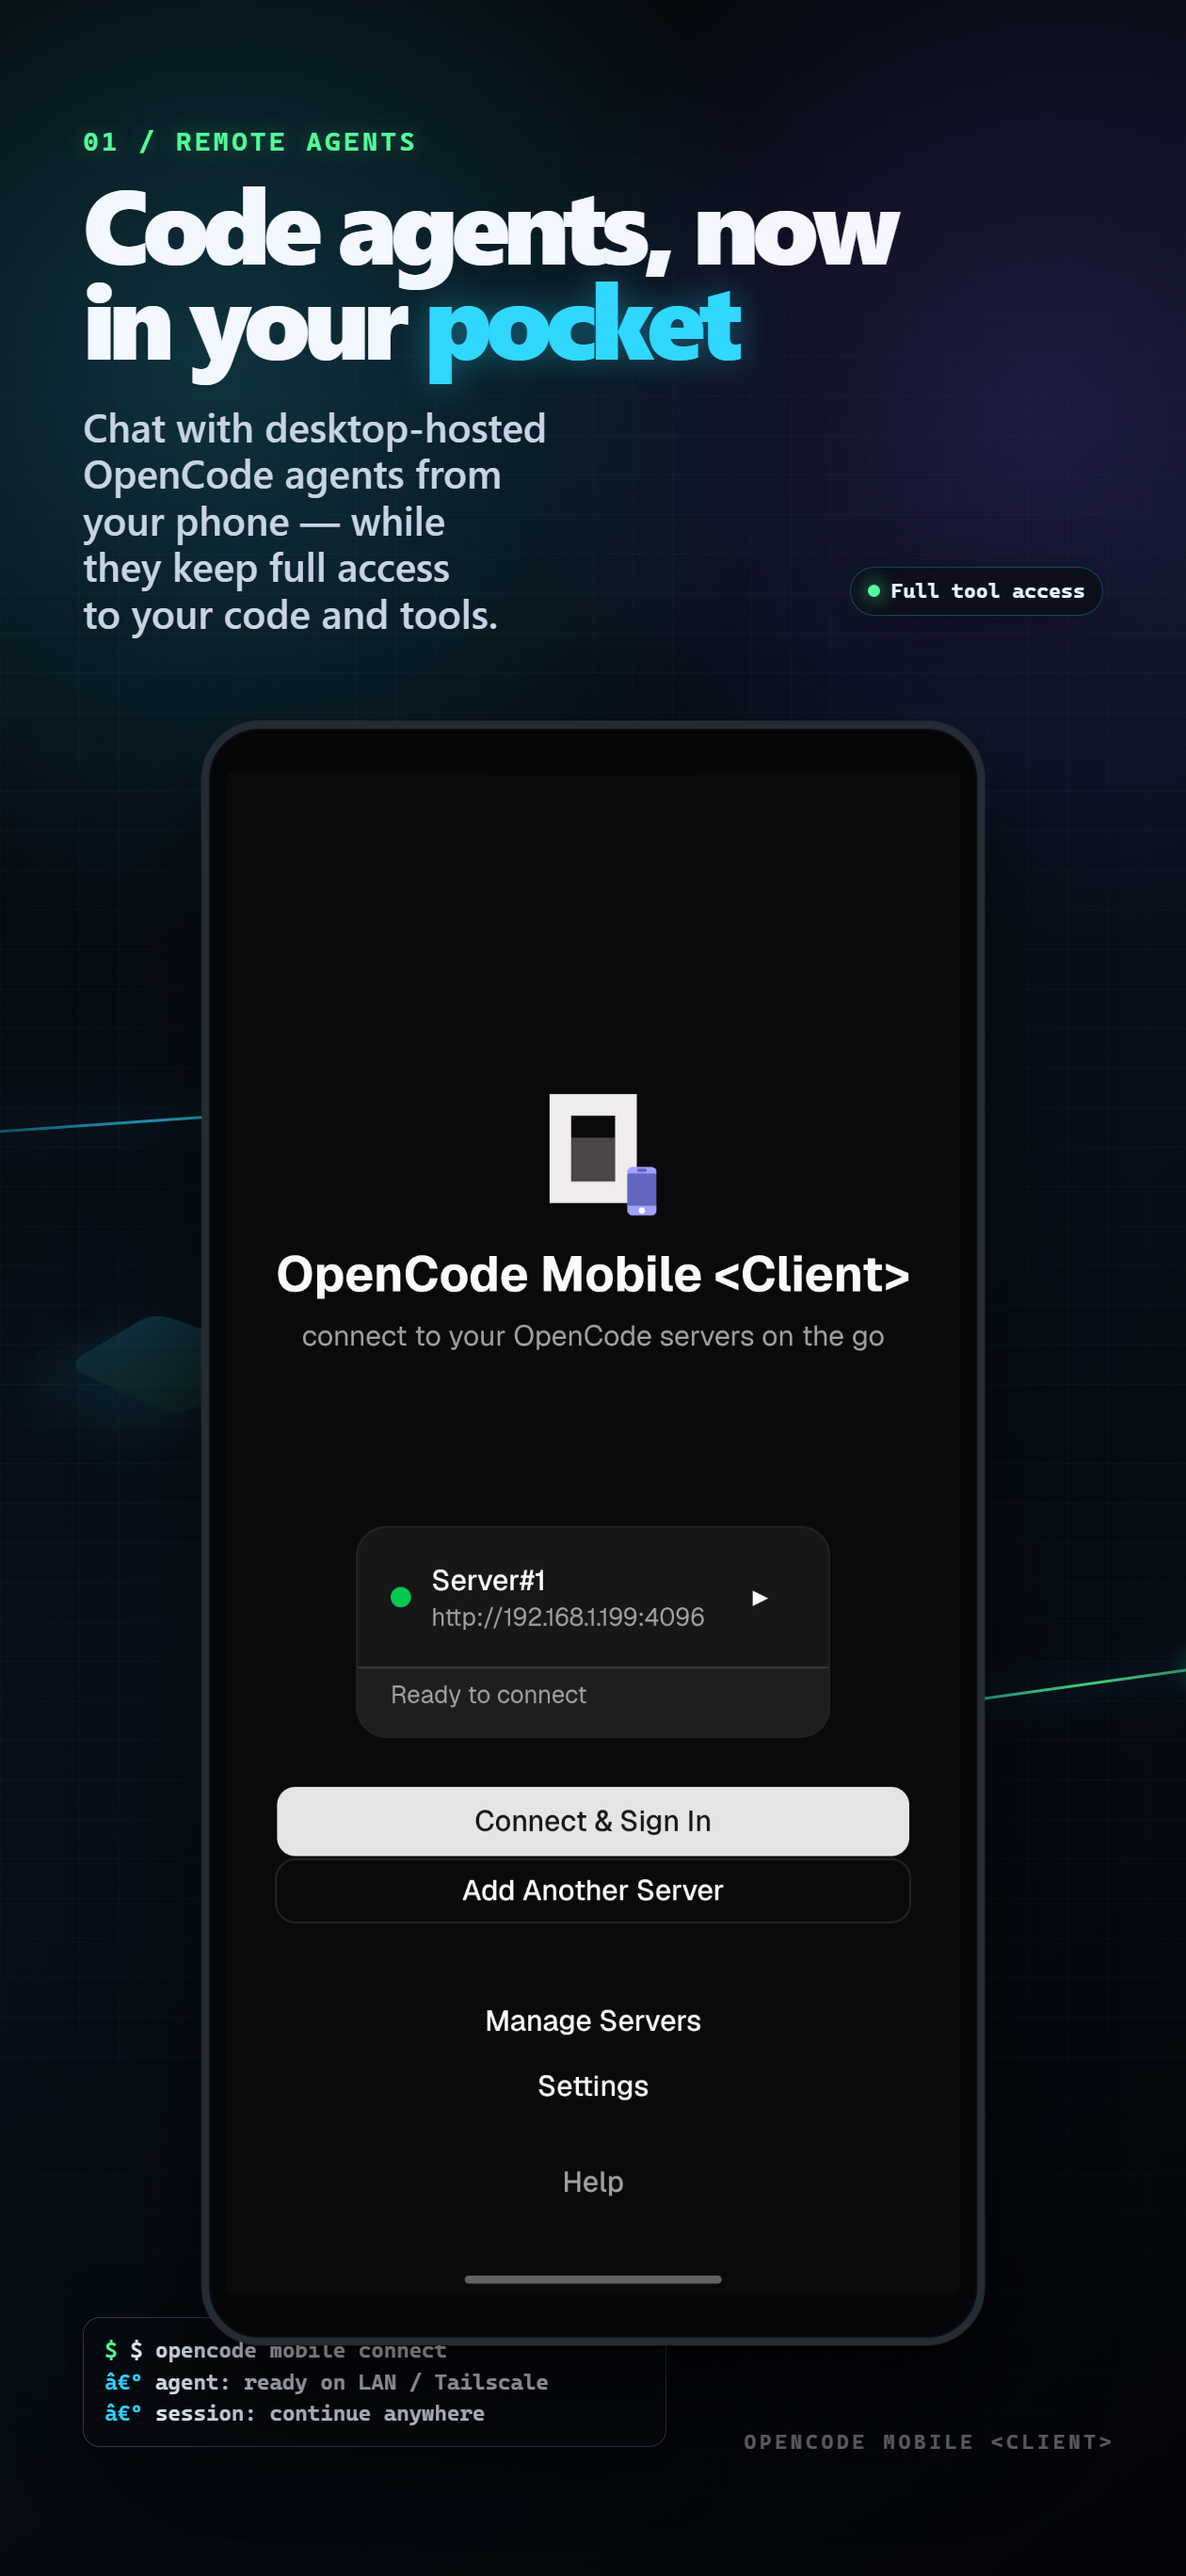
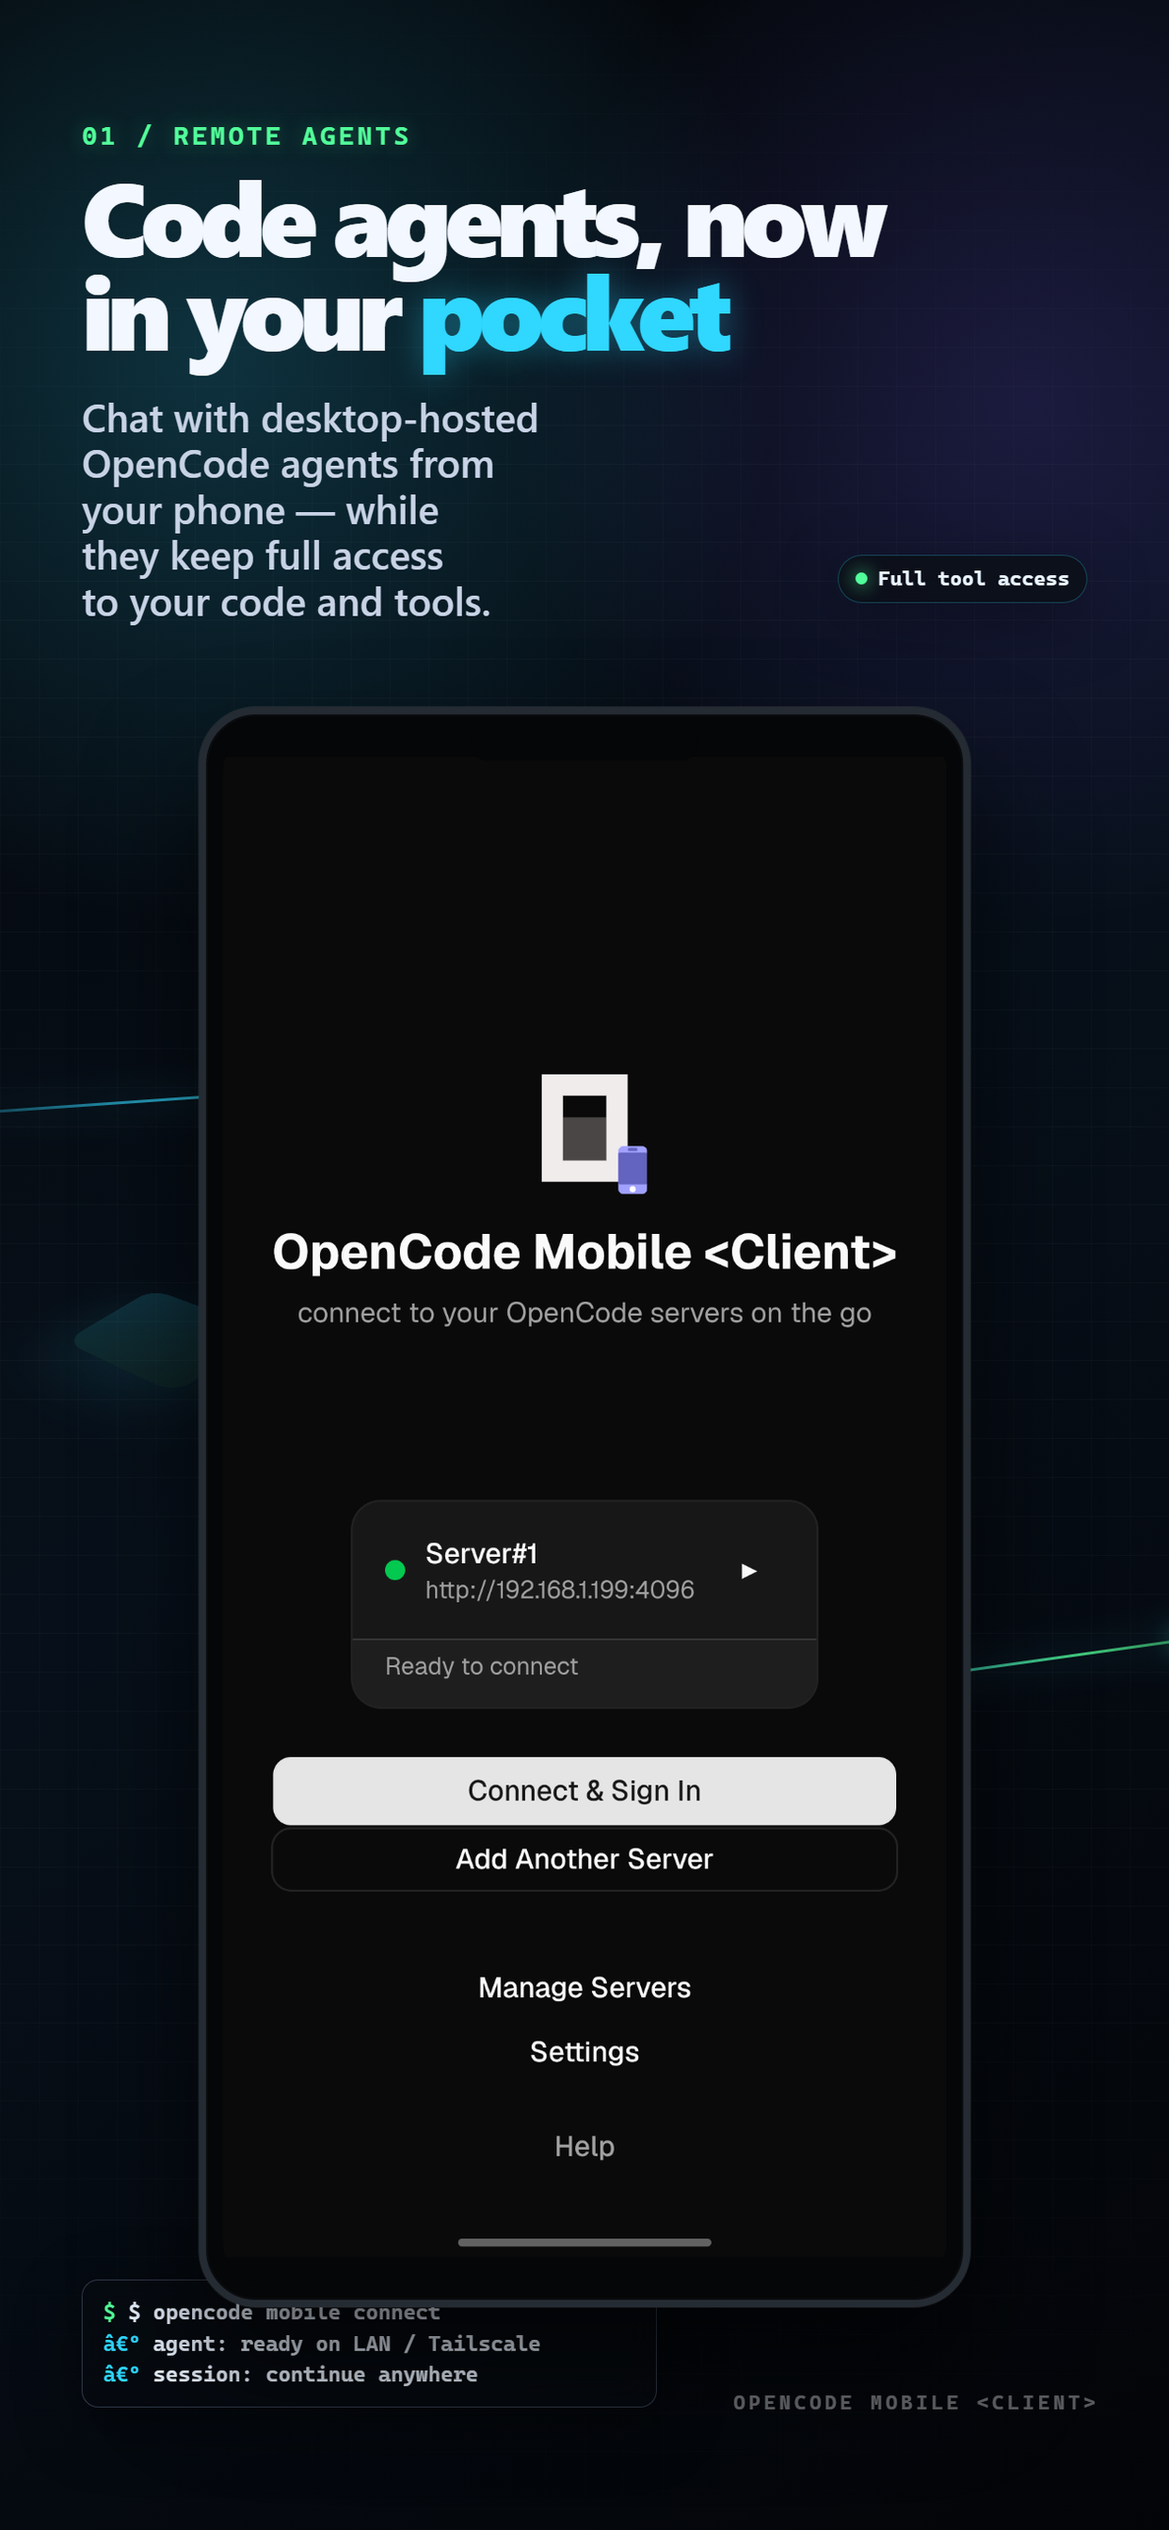
Resize iOS screenshots

diff --git a/docs/screenshots/capture-guide.md b/docs/screenshots/capture-guide.md
@@ -103,6 +103,24 @@ npm run screenshots:ios:capture <name>       # Capture current screen to docs/sc
 npm run screenshots:ios:guided          # Build → launch → step through all 7 screens with prompts
 ```
 
+### Resize iOS store screenshots
+
+The command processes screenshots in `docs/screenshots/design/iphone/` by default:
+
+```
+npm run screenshots:ios:resize
+```
+
+The command updates PNG, JPEG, and WebP screenshots in place. For each image it
+chooses the closest accepted App Store size (`1242 × 2688`, `2688 × 1242`,
+`1284 × 2778`, or `2778 × 1284`), center-crops only from the top and bottom,
+and scales it to that exact resolution. To process a different directory, pass
+it after `--`:
+
+```
+npm run screenshots:ios:resize -- path/to/screenshots
+```
+
 ### Typical workflow
 
 1. Boot your device/emulator first (Android emulator or iOS Simulator)
